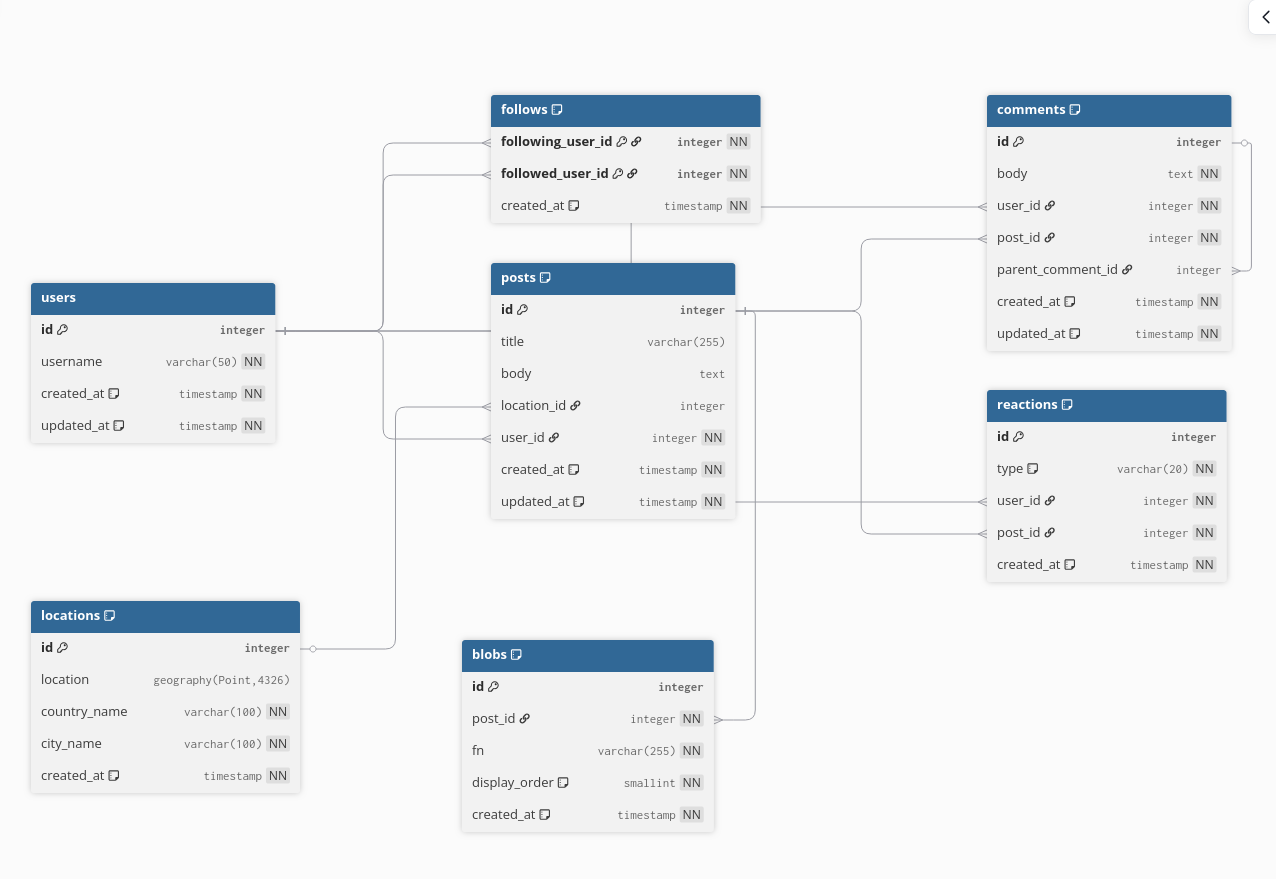
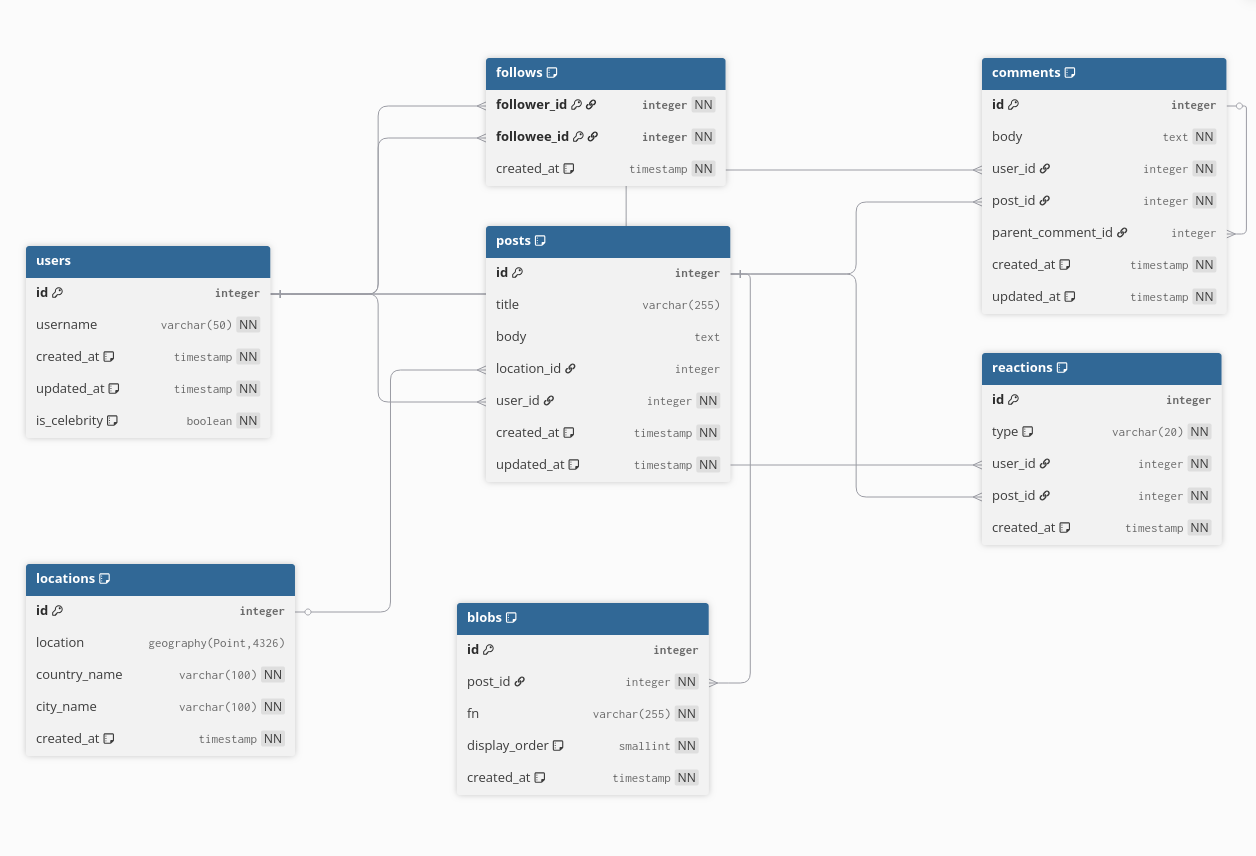
fixes

diff --git a/README.md b/README.md
@@ -4,54 +4,69 @@
 
 ### Functional requirements:
 - Publishing travel posts with photos, a short description, and a link to a specific travel destination
-- Rating and commenting on other travelers' posts
-- Subscribing to other travelers to follow their activity
+- Rating and commenting on other travelers posts
+- Subscribing/Unsubscribing to other travelers to follow their activity
 - Searching for popular travel destinations and viewing posts from those places
-- Viewing other travelers' feeds and a user feed based on subscriptions in reverse chronological order
+- Viewing other travelers' feeds based on subscriptions and a user feed, both in reverse chronological order
 - Support phone & web
 
 ### Non-functional requirements
 - 10 000 000 DAU
-- Support x2 load on holidays (new year, winter, summer), duration is 3 months
+- Support x2 load on holidays (new year, winter holidays, summer holidays), overall duration is 3 months
+- 99.9% availability per year (~8 hours of downtime)
+- For CIS countries
 - Write 1 post per week
-    - Pictures: max 512 KB per picture (do compression), max 10 pictures, 4 pictures on avg
+    - 3 seconds for creation
+    - Pictures: max 512 KB per picture (do compression on a client side), max 10 pictures, 4 pictures on avg
     - Description: max 2048 chars, max 4096 bytes (not 1 byte per char due to CIS country focus), 512 chars on avg
-    - Location: 200 bytes
+    - Location data: 512 bytes
 - Write 5 reactions for posts per day
 - Write 2 comments for posts per day (text <= 1024 chars)
-- Read feed x5 including search (10 posts per request) per day
-    - Max 2 seconds per request
-    - 1 MB size of each compressed picture
-- Write 3 subscribe/cancel to someone per day
+- Read feed x5 (10 posts per request) per day
+    - Eventual consistency on reading other travelers posts
+    - Get feed for 2 seconds
+- Read feed by searching place x2 (10 posts per request) per day
+    - Eventual consistency on reading other travelers posts
+    - Get feed for 3 seconds
+- Write 1 subscribe/unsubscribe to someone per day
+    - subscribe/unsubscribe in 1 second
     - ~100 subscriptions per user
-    - ~500 subscribers per user
+    - ~100 subscribers per user
     - Consider celebrities, max 1 million subs
-- For CIS countries
-- 99.9% availability per year (~8 hours of downtime)
 
 ### RPS
 - TPS (Transactions Per Second):
     - Post: 10 000 000 / 7 / 86 400 = 16, peak 32
     - Reactions: 10 000 000 * 5 / 86 400 = 575, peak 1150
     - Comments: 10 000 000 * 2 / 86 400 = 230, peak 460
-    - Subscribe/cancel: 10 000 000 * 3 / 86 400 = 345, peak 690
+    - Subscribe/unsubscribe: 10 000 000 * 1 / 86 400 = 115, peak 230
 - QPS (Queries Per Second):
     - Feed: 10 000 000 * 5 / 86 400 = 575, peak 1150
+    - Searching places: 10 000 000 * 2 / 86 400 = 230, peak 460
 
 ### Traffic
 - TPS (Transactions Per Second):
     - Post:
         - media: 16 rps * (512 KB picture * 4 number of pictures on avg) = 16 * 2 MB = 32 MB/s, peak 64 MB/s
-        - metadata: 16 rps * (1024 bytes desc. + 200 bytes location) = 16 * 2 KB = 32 KB/s, peak 64 KB/s
+        - metadata: 16 rps * (1024 bytes desc. + 512 bytes location) = 16 * 2 KB = 32 KB/s, peak 64 KB/s
     - Reactions: 575 rps * 100 bytes = 56 KB/s, peak 112 KB/s
     - Comments: 230 rps * 300 bytes = 70 KB/s, 140 KB/s
-    - Subscribe/cancel: 345 rps * 100 bytes = 34 KB/s, peak 68 KB/s
+    - Subscribe/unsubscribe: 115 rps * 100 bytes = 12 KB/s, peak 24 KB/s
 - QPS (Queries Per Second):
     - Feed:
-        - media: 575 rps * (512 KB picture * 4 number of pictures on avg) * 10 posts = 575 * 2 MB * 10 posts = 11 500 MB/s ≈ 12 GB/s, peak 24 GB/s
-        - metadata: 575 rps * (1024 + 200) bytes * 10 posts = 575 * 12 KB = 6 900 KB/s≈ 6.9 MB/s, peak 13.8 MB/s
+        - media: 575 rps * (512 KB picture * 4 number of pictures on avg) * 10 posts = 575 * 2 MB * 10 posts = 11 500 MB/s = 12 GB/s, peak 24 GB/s
+        - metadata: 575 rps * (1024 + 512) bytes * 10 posts = 575 * 20 KB = 12 000 KB/s = 12 MB/s, peak 24 MB/s
+    - Searching places:
+        - media: 230 rps * (512 KB picture * 4 number of pictures on avg) * 10 posts = 230 * 2 MB * 10 posts = 4 600 MB/s = 5 GB/s, peak 10 GB/s
+        - metadata: 230 rps * (1024 + 512) bytes * 10 posts = 230 * 20 KB = 4 600 KB/s = 5 MB/s, peak 10 MB/s
 
 ### Storage
+
+Disks_for_capacity = capacity / disk_capacity
+Disks_for_throughput = traffic_per_second / disk_throughput
+Disks_for_iops = iops / disk_iops
+Disks = max(ceil(Disks_for_capacity), ceil(Disks_for_throughput), ceil(Disks_for_iops))
+
 - Posts (incl. seasonality) (metadatas and blobs are stored in the same disk):
     Сapacity = 50 MB/s * 86 400 * 365 = 1 600 000 000 MB = 1.6 PB
     Disks_for_capacity = 1.6 PB / 100 TB = 16